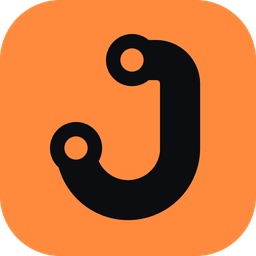
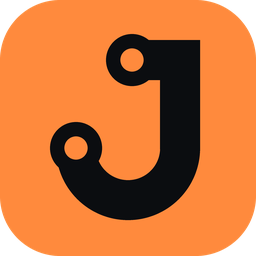
Square off the top corner of the J
The train now takes its heading from both ends of each car, so it swings
round the square corner instead of snapping.

Claude-Session: https://claude.ai/code/session_014p4sZwxgwNBG1eNoBjhBkh

Changed region(s): [[0.625, 0.1562, 0.8125, 0.3125]]

diff --git a/src/Tfmm.App/Views/Logo.axaml.cs b/src/Tfmm.App/Views/Logo.axaml.cs
@@ -16,9 +16,8 @@ public partial class Logo : UserControl
     // The route in Logo.axaml, as pieces in order: lines (x1, y1, x2, y2) and arcs (cx, cy, r, from°, to°; y points down).
     static readonly Piece[] Route =
     [
-        Piece.Line(33, 15, 39, 15),
-        Piece.Arc(39, 21, 6, -90, 0),
-        Piece.Line(45, 21, 45, 37),
+        Piece.Line(33, 15, 45, 15),
+        Piece.Line(45, 15, 45, 37),
         Piece.Arc(32, 37, 13, 0, 180),
     ];
     static readonly double RouteLength = Route.Sum(p => p.Length);
@@ -94,10 +93,13 @@ public partial class Logo : UserControl
             // Only on the track: cars enter at the top station and leave at the bottom one.
             car.IsVisible = mid >= CarLength / 2 && mid <= RouteLength - CarLength / 2;
             if (!car.IsVisible) continue;
-            var (x, y, angle) = At(mid);
+            var (x, y) = At(mid);
+            // Heading from the car's two ends, so it swings round the corner instead of snapping.
+            var (bx, by) = At(mid - CarLength / 2);
+            var (fx, fy) = At(mid + CarLength / 2);
             Canvas.SetLeft(car, x - CarLength / 2);
             Canvas.SetTop(car, y - CarWidth / 2);
-            ((RotateTransform)car.RenderTransform!).Angle = angle;
+            ((RotateTransform)car.RenderTransform!).Angle = Math.Atan2(fy - by, fx - bx) * 180 / Math.PI;
         }
         return head <= RouteLength + TrainLength;
     }
@@ -107,8 +109,8 @@ public partial class Logo : UserControl
         foreach (var c in _cars) c.IsVisible = false;
     }
 
-    /// <summary>Point and heading (degrees) at distance <paramref name="s"/> along the route.</summary>
-    static (double X, double Y, double Angle) At(double s)
+    /// <summary>Point at distance <paramref name="s"/> along the route.</summary>
+    static (double X, double Y) At(double s)
     {
         foreach (var p in Route)
         {
@@ -125,16 +127,15 @@ public partial class Logo : UserControl
 
         public double Length => IsArc ? C * Math.Abs(E - D) * Math.PI / 180 : Math.Sqrt((C - A) * (C - A) + (D - B) * (D - B));
 
-        public (double, double, double) At(double s)
+        public (double, double) At(double s)
         {
             if (!IsArc)
             {
                 var f = Length == 0 ? 0 : s / Length;
-                return (A + (C - A) * f, B + (D - B) * f, Math.Atan2(D - B, C - A) * 180 / Math.PI);
+                return (A + (C - A) * f, B + (D - B) * f);
             }
-            var deg = D + Math.Sign(E - D) * s / C * 180 / Math.PI;
-            var rad = deg * Math.PI / 180;
-            return (A + C * Math.Cos(rad), B + C * Math.Sin(rad), deg + Math.Sign(E - D) * 90);
+            var rad = (D + Math.Sign(E - D) * s / C * 180 / Math.PI) * Math.PI / 180;
+            return (A + C * Math.Cos(rad), B + C * Math.Sin(rad));
         }
     }
 }

diff --git a/tools/make_icon.py b/tools/make_icon.py
@@ -1,6 +1,6 @@
 """Draws the Junction mark (same shapes as src/Tfmm.App/Views/Logo.axaml) to PNG + ICO.
 
-The mark: a J drawn as a transit line (top arm, rounded corner, stem, hook) with a terminus
+The mark: a J drawn as a transit line (top arm, square corner, stem, hook) with a terminus
 station (a ring a bit wider than the line, like on a route map) at each end. Ink on an orange
 tile, 64-unit grid. The icon has no train; that only runs in the app while it loads.
 
@@ -40,9 +40,9 @@ def draw(size):
         o = r + w / 2
         d.arc((*P(cx - o, cy - o), *P(cx + o, cy + o)), start, end, fill=INK, width=round(w * k))
 
-    seg(33, 15, 39, 15, 10)       # top arm
-    arc(39, 21, 6, 270, 360, 10)  # corner
-    seg(45, 21, 45, 37, 10)       # stem
+    seg(33, 15, 45, 15, 10)       # top arm
+    seg(45, 15, 45, 37, 10)       # stem
+    d.rectangle((*P(40, 10), *P(50, 20)), fill=INK)  # square off the corner
     arc(32, 37, 13, 0, 180, 10)   # hook
     for cx, cy in ((33, 15), (19, 37)):  # terminus stations: ring a bit wider than the line
         circle(cx, cy, 6.5, INK)
